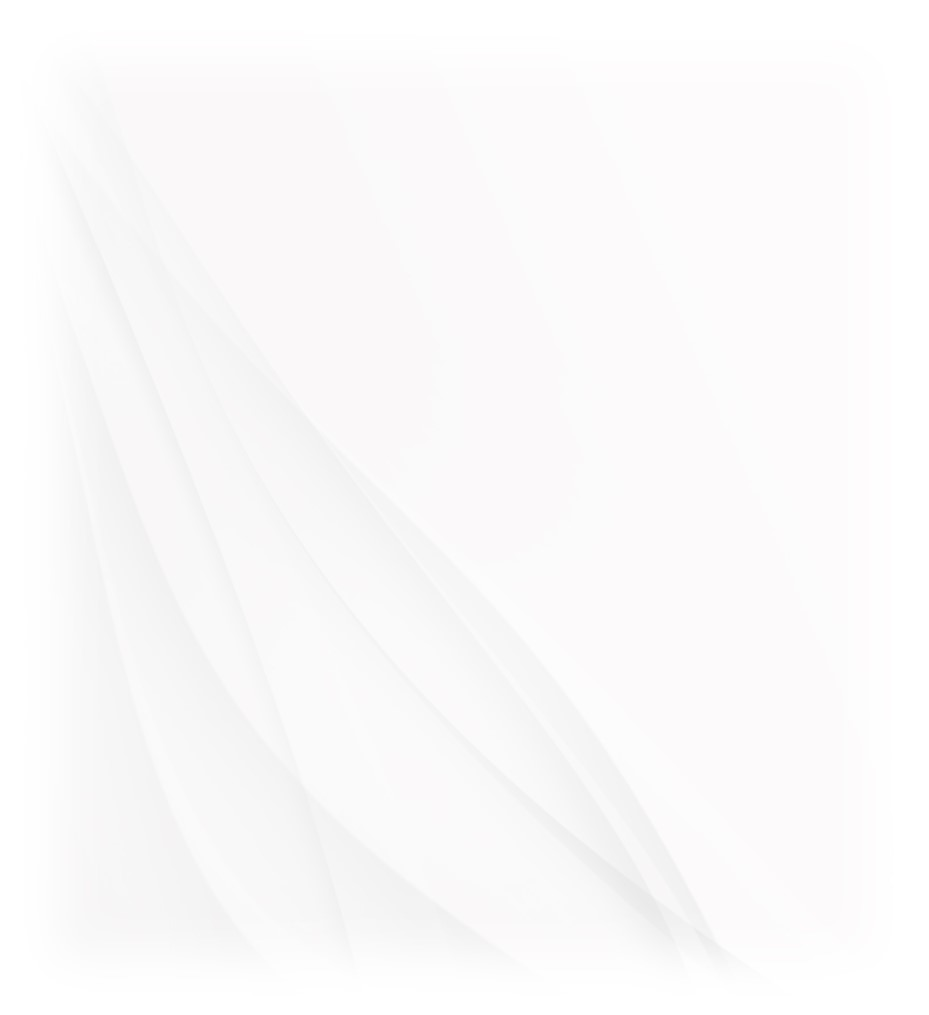
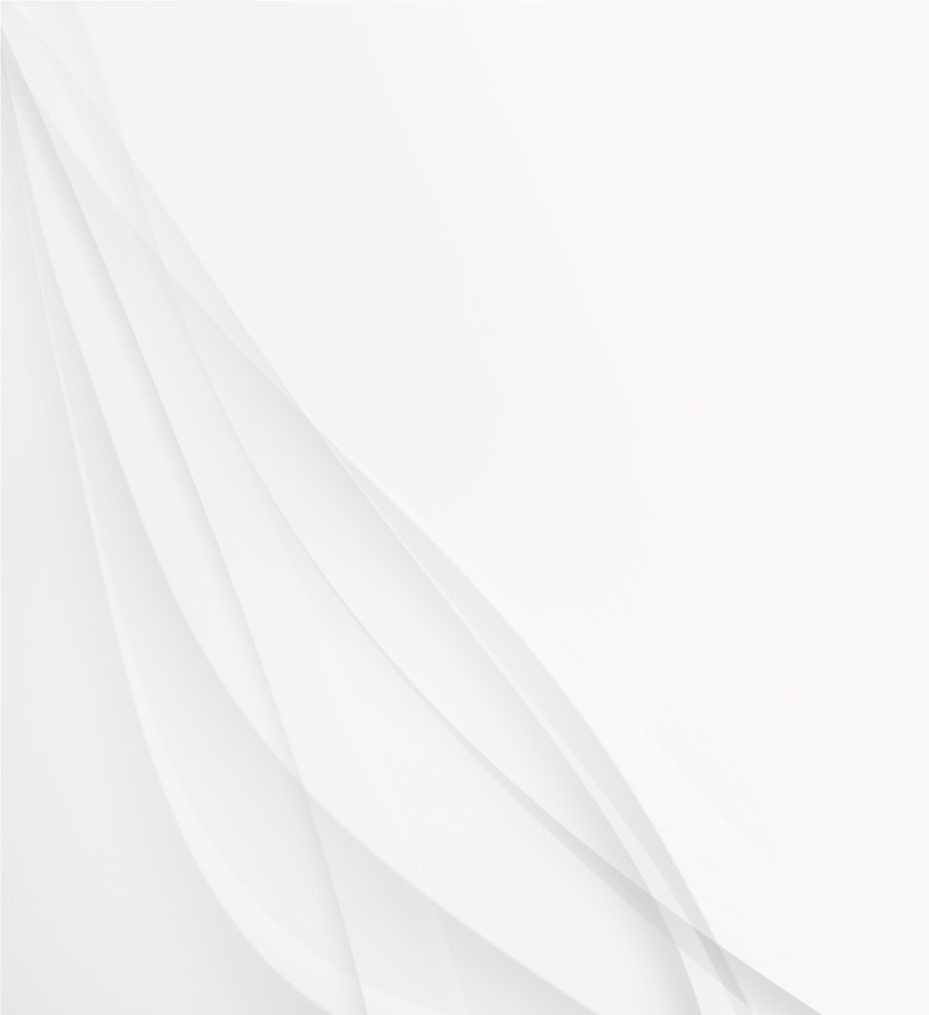
graphical improvements

diff --git a/src/resources/stylesheet.css b/src/resources/stylesheet.css
@@ -18,6 +18,7 @@
 
 #home-pane {
     -fx-background-image: url("subtleBackground.jpg");
+    -fx-background-size: cover, auto;
     -fx-background-repeat: none;
     -fx-background-position: center center;
 }

diff --git a/src/com/pld/agile/view/TextualViewStop.java b/src/com/pld/agile/view/TextualViewStop.java
@@ -276,7 +276,7 @@ public class TextualViewStop extends VBox implements Observer {
             Color.TRANSPARENT,
             BorderStrokeStyle.SOLID,
             new CornerRadii(10),
-            new BorderWidths(2)
+            new BorderWidths(3)
         )));
         this.setOnMouseClicked(
             e -> parent.getWindow().getController().clickOnTextualStop(stop)
@@ -298,7 +298,7 @@ public class TextualViewStop extends VBox implements Observer {
                     ViewUtilities.ORANGE,
                     BorderStrokeStyle.SOLID,
                     new CornerRadii(10),
-                    new BorderWidths(2)
+                    new BorderWidths(3)
             )));
             if (stop.getHighlighted() > 1) {
                 ViewUtilities.ensureVisible(scrollPane, this);
@@ -308,7 +308,7 @@ public class TextualViewStop extends VBox implements Observer {
                     Color.TRANSPARENT,
                     BorderStrokeStyle.SOLID,
                     new CornerRadii(10),
-                    new BorderWidths(2)
+                    new BorderWidths(3)
             )));
         }
     }

diff --git a/src/com/pld/agile/view/Window.java b/src/com/pld/agile/view/Window.java
@@ -8,6 +8,7 @@ import javafx.beans.binding.DoubleBinding;
 import javafx.geometry.Insets;
 import javafx.geometry.Pos;
 import javafx.scene.Scene;
+import javafx.scene.SceneAntialiasing;
 import javafx.scene.control.*;
 import javafx.scene.image.Image;
 import javafx.scene.image.ImageView;
@@ -127,6 +128,7 @@ public class Window extends Application {
         ImageView logo = new ImageView(new Image("logo.png"));
         logo.setPreserveRatio(true);
         logo.setFitWidth(600);
+        logo.setSmooth(true);
         // Button
         Button button = new Button("Load Map");
         button.getStyleClass().add("main-button");

diff --git a/src/com/pld/agile/view/GraphicalViewMapLayer.java b/src/com/pld/agile/view/GraphicalViewMapLayer.java
@@ -77,7 +77,7 @@ public class GraphicalViewMapLayer extends Pane {
             Line graphicalViewSegment = new GraphicalViewSegment(
                     graphicalView,
                     segment,
-                    2 * screenScale * mapScale,
+                    3 * screenScale * mapScale,
                     graphicalView.getWindow().getStreetNameLabel()
             );
             this.getChildren().add(graphicalViewSegment);

diff --git a/src/com/pld/agile/view/GraphicalViewRequestsLayer.java b/src/com/pld/agile/view/GraphicalViewRequestsLayer.java
@@ -54,7 +54,7 @@ public class GraphicalViewRequestsLayer extends Group {
             return;
         }
 
-        double graphicSize = 24 * screenScale * mapScale;
+        double graphicSize = 32 * screenScale * mapScale;
 
         Stop warehouse = tourData.getWarehouse();
         GraphicalViewStop warehouseGraphic = new GraphicalViewStop(warehouse, graphicalView, graphicSize, 0, false);

diff --git a/src/com/pld/agile/view/GraphicalViewTourLayer.java b/src/com/pld/agile/view/GraphicalViewTourLayer.java
@@ -70,7 +70,7 @@ public class GraphicalViewTourLayer extends Pane {
             GraphicalViewPath graphicalViewPath = new GraphicalViewPath(
                 graphicalView,
                 path,
-                4 * screenScale * mapScale,
+                6 * screenScale * mapScale,
                     finished
             );
             this.getChildren().add(graphicalViewPath);
